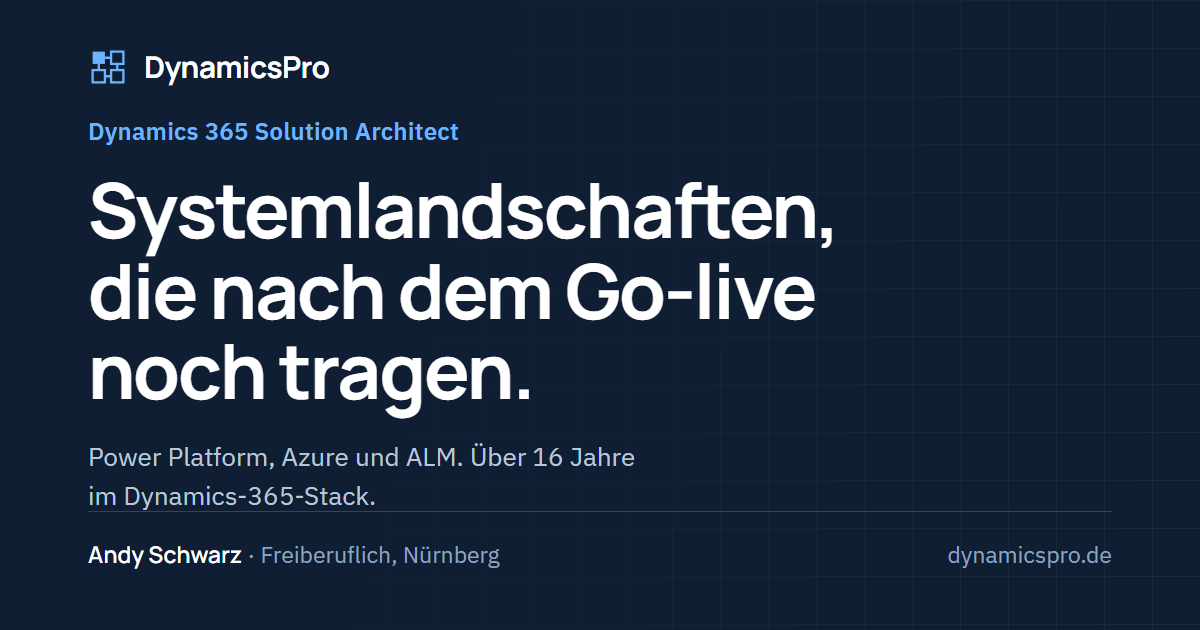
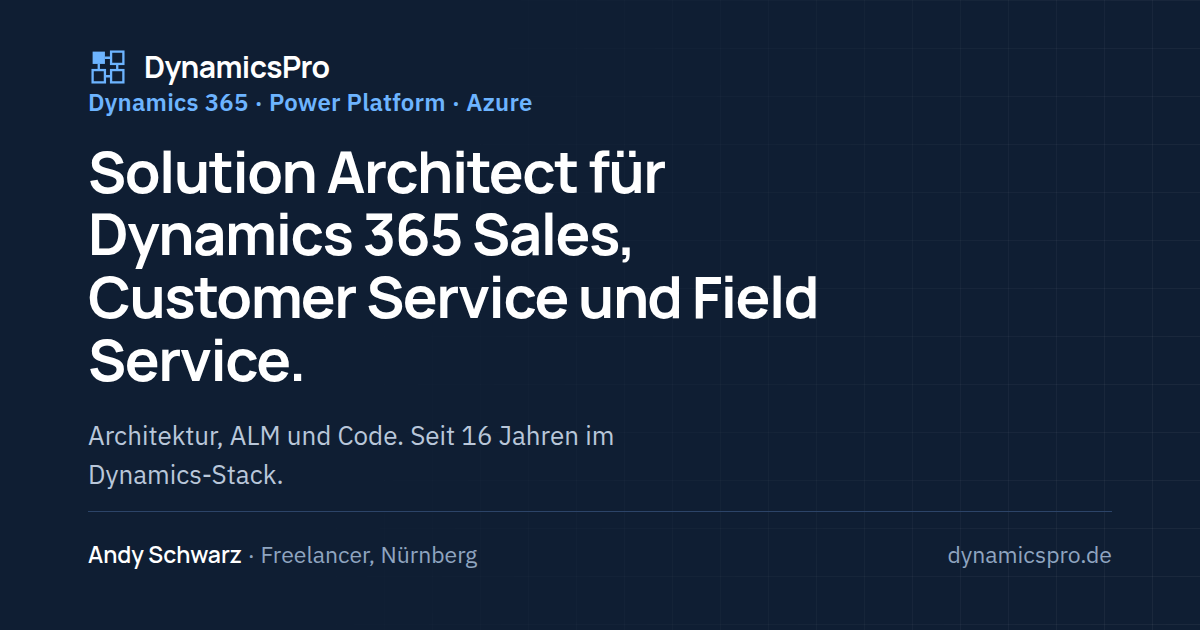
SEO: OG-Karte auf den neuen Claim, strukturierte Daten, Sitemap-Daten
Vorschaubild und og:image:alt zeigten noch den alten Claim. Startseite
bekommt ProfessionalService mit Angebotskatalog neben der Person, die
Health-Check-Seite Service mit Offer und Preis. Description nennt
Freelancer, weil so gesucht wird. lastmod in der Sitemap auf heute.

Claude-Session: https://claude.ai/code/session_01Te5g2LNaqwq1FJmAab4vWC

diff --git a/index.html b/index.html
@@ -4,7 +4,7 @@
 <meta charset="utf-8">
 <meta name="viewport" content="width=device-width, initial-scale=1">
 <title>Andy Schwarz · DynamicsPro · Dynamics 365 Solution Architect</title>
-<meta name="description" content="Andy Schwarz, freiberuflicher Dynamics 365 Solution Architect. Power Platform, Azure, ALM und Systemanalysen zu Performance und Sicherheit. Nürnberg, DACH-weit.">
+<meta name="description" content="Andy Schwarz, Dynamics 365 Solution Architect und Freelancer. Architektur, ALM und Code für Sales, Customer Service und Field Service, dazu Health Checks. Nürnberg, remote und im DACH-Raum.">
 <link rel="canonical" href="https://dynamicspro.de/">
 <meta name="theme-color" content="#0F1E33">
 <link rel="icon" href="assets/favicon.svg" type="image/svg+xml">
@@ -19,7 +19,7 @@
 <meta property="og:image" content="https://dynamicspro.de/assets/og.png">
 <meta property="og:image:width" content="1200">
 <meta property="og:image:height" content="630">
-<meta property="og:image:alt" content="DynamicsPro: Systemlandschaften, die nach dem Go-live noch tragen.">
+<meta property="og:image:alt" content="Andy Schwarz, Solution Architect für Dynamics 365 Sales, Customer Service und Field Service. DynamicsPro, Nürnberg.">
 <meta name="twitter:card" content="summary_large_image">
 
 <link rel="preload" href="assets/fonts/manrope-latin.woff2" as="font" type="font/woff2" crossorigin>
@@ -270,7 +270,39 @@
     "ALM",
     "Azure DevOps"
   ],
-  "description": "Andy Schwarz, freiberuflicher Dynamics 365 Solution Architect. Power Platform, Azure, ALM/DevOps Lead. 16+ Jahre Dynamics 365 CE, Sales, Customer Service und Field Service. Nürnberg, remote und vor Ort im DACH-Raum."
+  "description": "Andy Schwarz, Dynamics 365 Solution Architect und Freelancer. Architektur, ALM und Code für Sales, Customer Service und Field Service. 16+ Jahre Dynamics 365 CE. Nürnberg, remote und vor Ort im DACH-Raum.",
+  "worksFor": { "@id": "https://dynamicspro.de/#business" }
+}
+</script>
+<script type="application/ld+json">
+{
+  "@context": "https://schema.org",
+  "@type": "ProfessionalService",
+  "@id": "https://dynamicspro.de/#business",
+  "name": "DynamicsPro",
+  "url": "https://dynamicspro.de/",
+  "image": "https://dynamicspro.de/assets/og.png",
+  "email": "mailto:aschwarz@dynamicspro.de",
+  "telephone": "+49 173 5274172",
+  "founder": { "@type": "Person", "name": "Andy Schwarz" },
+  "address": {
+    "@type": "PostalAddress",
+    "addressLocality": "Stein bei Nürnberg",
+    "addressRegion": "Bayern",
+    "addressCountry": "DE"
+  },
+  "areaServed": ["DE", "AT", "CH"],
+  "description": "Dynamics 365 Solution Architecture, ALM und Pro-Code für Sales, Customer Service und Field Service. Health Checks zum Festpreis.",
+  "hasOfferCatalog": {
+    "@type": "OfferCatalog",
+    "name": "Leistungen",
+    "itemListElement": [
+      { "@type": "Offer", "itemOffered": { "@type": "Service", "name": "Dynamics 365 Health Check", "url": "https://dynamicspro.de/health-check/" } },
+      { "@type": "Offer", "itemOffered": { "@type": "Service", "name": "Solution Architecture Dynamics 365" } },
+      { "@type": "Offer", "itemOffered": { "@type": "Service", "name": "ALM und DevOps auf Azure DevOps" } },
+      { "@type": "Offer", "itemOffered": { "@type": "Service", "name": "Systemanalyse und Reviews" } }
+    ]
+  }
 }
 </script>
 </head>
@@ -468,7 +500,7 @@
       <img class="portrait" src="assets/andy-schwarz.jpg" alt="Andy Schwarz">
       <div>
         <h2>Wie ich arbeite</h2>
-        <p class="lead-in">Dipl.-Inf. (FH), seit 2007 im Microsoft-CRM-Umfeld. 15 Jahre als angestellter Entwickler, Berater und Architekt, seit 2022 freiberuflich unter der Marke DynamicsPro, eingebettet in Kundenteams oder als Subunternehmer für Microsoft-Partner.</p>
+        <p class="lead-in">Dipl.-Inf. (FH), seit 2007 im Microsoft-CRM-Umfeld. 15 Jahre als angestellter Entwickler, Berater und Architekt, seit 2022 Freelancer unter der Marke DynamicsPro, eingebettet in Kundenteams oder als Subunternehmer für Microsoft-Partner.</p>
         <p>Was mich von reinen Beratern unterscheidet: Ich schreibe den Code selbst. Was mich von reinen Entwicklern unterscheidet: Ich sitze auch im Lenkungskreis und erkläre dem Betriebsrat, was ein KI-Feld tut. Vier Grundsätze, die sich über die Jahre bewährt haben:</p>
       </div>
     </div>

diff --git a/scripts/og-card.html b/scripts/og-card.html
@@ -11,12 +11,12 @@
     background-image:linear-gradient(rgba(255,255,255,.05) 1px,transparent 1px),linear-gradient(90deg,rgba(255,255,255,.05) 1px,transparent 1px);
     background-size:48px 48px;
     -webkit-mask-image:linear-gradient(105deg,transparent 30%,#000 100%)}
-  .card{position:relative;height:100%;display:flex;flex-direction:column;justify-content:center;padding:0 88px}
+  .card{position:relative;height:100%;display:flex;flex-direction:column;justify-content:center;padding:40px 88px 90px}
   .mark{display:flex;align-items:center;gap:16px;font-family:"Manrope",sans-serif;font-weight:700;font-size:30px;letter-spacing:-.02em;
     position:absolute;top:46px;left:88px}
   .mark svg{width:40px;height:40px}
   .kicker{font-size:24px;font-weight:600;color:#6DB4FF;letter-spacing:.01em}
-  h1{font-family:"Manrope",sans-serif;font-weight:700;font-size:76px;line-height:1.06;letter-spacing:-.025em;margin:22px 0 26px;max-width:17ch}
+  h1{font-family:"Manrope",sans-serif;font-weight:700;font-size:58px;line-height:1.08;letter-spacing:-.025em;margin:22px 0 26px;max-width:20ch}
   p{font-size:26px;line-height:1.5;color:#B9C7DA;max-width:36ch}
   .foot{position:absolute;bottom:60px;left:88px;right:88px;display:flex;justify-content:space-between;align-items:center;
     font-size:23px;color:#8FA5C0;border-top:1px solid #2C4468;padding-top:26px}
@@ -29,12 +29,12 @@
     DynamicsPro
   </div>
   <div class="card">
-    <div class="kicker">Dynamics 365 Solution Architect</div>
-    <h1>Systemlandschaften, die nach dem Go-live noch tragen.</h1>
-    <p>Power Platform, Azure und ALM. Über 16 Jahre im Dynamics-365-Stack.</p>
+    <div class="kicker">Dynamics 365 · Power Platform · Azure</div>
+    <h1>Solution Architect für Dynamics 365 Sales, Customer Service und Field Service.</h1>
+    <p>Architektur, ALM und Code. Seit 16 Jahren im Dynamics-Stack.</p>
   </div>
   <div class="foot">
-    <span><b>Andy Schwarz</b> · Freiberuflich, Nürnberg</span>
+    <span><b>Andy Schwarz</b> · Freelancer, Nürnberg</span>
     <span>dynamicspro.de</span>
   </div>
 </body>

diff --git a/health-check/index.html b/health-check/index.html
@@ -20,7 +20,7 @@
 <meta property="og:image" content="https://dynamicspro.de/assets/og.png">
 <meta property="og:image:width" content="1200">
 <meta property="og:image:height" content="630">
-<meta property="og:image:alt" content="DynamicsPro: Systemlandschaften, die nach dem Go-live noch tragen.">
+<meta property="og:image:alt" content="Andy Schwarz, Solution Architect für Dynamics 365 Sales, Customer Service und Field Service. DynamicsPro, Nürnberg.">
 <meta name="twitter:card" content="summary_large_image">
 
 <link rel="preload" href="../assets/fonts/manrope-latin.woff2" as="font" type="font/woff2" crossorigin>
@@ -148,6 +148,26 @@
   .after-cta{margin-top:0;padding:3.5rem 0 1rem}
   section[id]{scroll-margin-top:96px}
 </style>
+<script type="application/ld+json">
+{
+  "@context": "https://schema.org",
+  "@type": "Service",
+  "name": "Dynamics 365 Health Check",
+  "serviceType": "Systemanalyse Dynamics 365 CE und Power Platform",
+  "url": "https://dynamicspro.de/health-check/",
+  "description": "Unabhängiger Health Check für Dynamics 365 CE und Power Platform: Scorecard, Risikoliste und Maßnahmenplan in 5 Tagen.",
+  "provider": { "@id": "https://dynamicspro.de/#business" },
+  "areaServed": ["DE", "AT", "CH"],
+  "offers": {
+    "@type": "Offer",
+    "price": "5000",
+    "priceCurrency": "EUR",
+    "priceSpecification": { "@type": "UnitPriceSpecification", "price": "5000", "priceCurrency": "EUR", "valueAddedTaxIncluded": false },
+    "availability": "https://schema.org/InStock",
+    "url": "https://dynamicspro.de/health-check/"
+  }
+}
+</script>
 </head>
 <body>
 
